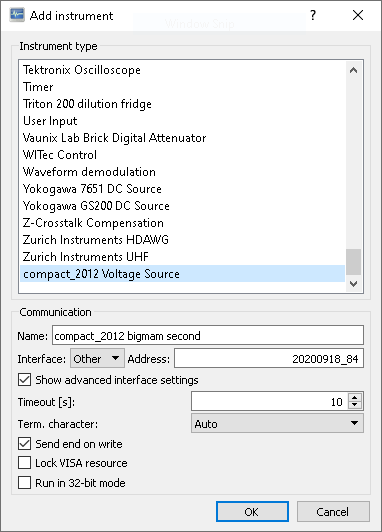
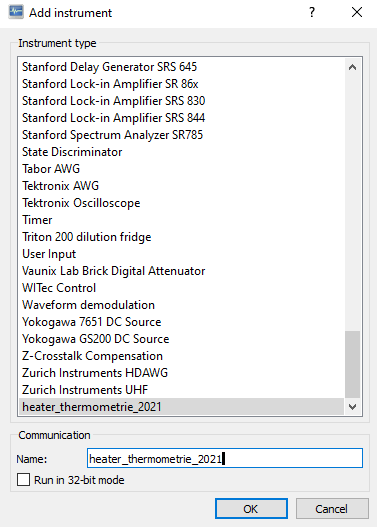
Updated documentation for python 3.7. Removed 3.9.

diff --git a/heater_driver.py b/heater_driver.py
@@ -9,18 +9,6 @@ import heater_thread
 from heater_wrapper import DIRECTORY_OF_THIS_FILE, QuantityNotFoundException
 
 logger = logging.getLogger("LabberDriver")
-
-
-if 0 > 1:
-    DIRECTORY_OF_THIS_FILE = pathlib.Path(__file__).resolve().parent
-    fh = logging.handlers.RotatingFileHandler(DIRECTORY_OF_THIS_FILE / "heater_driver_labber.log", maxBytes=10 * 1000 * 1000)
-    fh.setLevel(logging.DEBUG)
-    formatter = logging.Formatter("%(asctime)s - %(name)s - %(levelname)s - %(message)s")
-    fh.setFormatter(formatter)
-    # add the handlers to the logger
-    logger.addHandler(fh)
-    logger.setLevel(logging.DEBUG)
-
 LABBER_INTERNAL_QUANTITIES = ("Expert",)
 MODEL_SIMULATION = "Simulation"
 
@@ -42,46 +30,10 @@ class Driver(InstrumentDriver.InstrumentWorker):
         self.ht = heater_thread.HeaterThread(hwserial=hwserial)
 
         # Reset the usb connection (it must not change the applied voltages)
-        self.log(f"ETH Heater Thermometrie 2021: Connection resetted at startup. hwserial={hwserial} model={self.getModel()}")
+        self.log(
+            f"ETH Heater Thermometrie 2021: Connection resetted at startup. hwserial={hwserial} model={self.getModel()}"
+        )
 
     def performClose(self, bError=False, options={}):
         """Perform the close instrument connection operation"""
         self.ht.stop()
-
-    def performSetValue(self, quant, value, sweepRate=0.0, options={}):
-        """Perform the Set Value instrument operation. This function should
-        return the actual value set by the instrument"""
-        # keep track of multiple calls, to set multiple voltages efficiently
-        if quant.name in LABBER_INTERNAL_QUANTITIES:
-            return value
-        try:
-            value_new = self.ht.set_value(name=quant.name, value=value)
-            logger.debug(f"performSetValue('{quant.name}', '{value}') -> '{value_new}'")
-            return value_new
-        except QuantityNotFoundException as e:
-            logger.exception(e)
-            raise
-
-    def checkIfSweeping(self, quant):
-        """Always return false, sweeping is done in loop"""
-        return False
-
-    def performGetValue(self, quant, options={}):
-        """Perform the Get Value instrument operation"""
-        # only implmeneted for geophone voltage
-        logger.debug(f"performGetValue({quant.name})")
-        if quant.name in LABBER_INTERNAL_QUANTITIES:
-            return quant.getValue()
-        try:
-            value = self.ht.get_value(name=quant.name)
-            logger.debug(f"performGetValue({quant.name}) -> '{value}'")
-            return value
-        except QuantityNotFoundException as e:
-            logger.exception(e)
-            raise
-
-
-if __name__ == "__main__":
-    pass
-    # import pathlib
-    # (pathlib.Path(__file__).parent / "exception.txt").write_text(quantity.name)

diff --git a/doc_installation/README_INSTALLATION_python3_7_9.md b/doc_installation/README_INSTALLATION_python3_7_9.md
@@ -1,4 +1,4 @@
-# Installation of Labber Driver for compact_2012
+# Installation of Labber Driver for heater_thermometrie_2021
 
 ## Pathnames
 
@@ -40,13 +40,9 @@ Windows 64bit msi installer
    - `C:\Users\maerki\AppData\Local\Programs\Python\Python37`
 
 
-Python packages installed
-```bash
-C:\Users\maerki\AppData\Local\Programs\Python\Python37\python.exe -m pip install --upgrade pip
-C:\Users\maerki\AppData\Local\Programs\Python\Python37\python.exe -m pip install -r requirements.txt -r requirements_development.txt
-```
+### Labber 1.7.7 installed
 
-### Labber 1.7.7 installed.
+Install Labber using the installer
 
 ### Configure Labber to user Python 3.7.9
 
@@ -72,3 +68,41 @@ Navigate to https://git-scm.com/download/win and download "64-bit Git for Window
 ![GIT G](images/installation_git_g.png "GIT G")
 
 ![GIT H](images/installation_git_h.png "GIT H")
+
+## Install heater_thermometrie_2021 labber driver
+
+### Clone git repository
+
+Run `cmd.exe`:
+```bash
+cd C:\Users\maerki\Labber\Drivers
+git clone https://github.com/nanophysics/heater_thermometrie_2021
+cd heater_thermometrie_2021
+```
+
+### Install python requirements
+
+Run `cmd.exe` below as **Administrator**.
+```bash
+cd C:\Users\maerki\Labber\Drivers\heater_thermometrie_2021
+
+"C:\Users\maerki\AppData\Local\Programs\Python\Python37\python.exe" -m pip install --upgrade pip
+"C:\Users\maerki\AppData\Local\Programs\Python\Python37\python.exe" -m pip install -r requirements.txt -r requirements_development.txt
+```
+
+There will be some warnings about *PATH*. You may ignore them.
+
+The last line should be `Successfully installed ... mpfshell2-100.9.xx ...`!
+
+
+## Configure the heater_thermometrie_2021 in the Labber Instrument Server
+
+Start the Labber Instrument Server and choose menu `Edit -> Add...`
+
+![LABBER ADD](images/installation_labber_add.png "LABBER ADD")
+
+## Update the heater_thermometrie_2021 driver and calibration data
+
+The driver AND the calibration data is stored in the git repository located at `<LABBERLOCALDRIVERS>\heater_thermometrie_2021`.
+
+Double click `<LABBERLOCALDRIVERS>\heater_thermometrie_2021\run_git_pull.bat` to pull the newest version.
